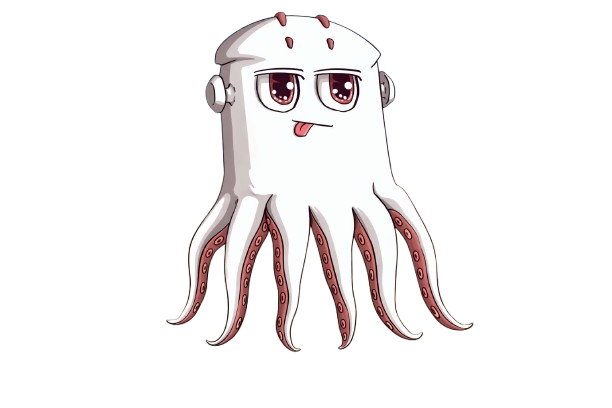
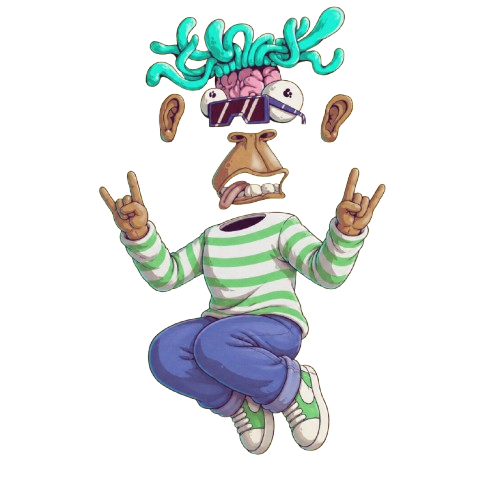
change of origin

Changed region(s): [[0.18, 0.0, 0.78, 0.9118]]

diff --git a/component/GameCanvas.tsx b/component/GameCanvas.tsx
@@ -31,7 +31,7 @@ export default function GameCanvas() {
         const titleSize = width < 768 ? "38px" : "72px";
 
         const title = this.add
-          .text(width / 2, height / 2 - 140, "Welcome to L0F0", {
+          .text(width / 2, height / 2 - 140, "Welcome to XPLODIES", {
             fontFamily: "Comic Sans MS",
             fontSize: titleSize,
             color: "#F8F4FF",
@@ -327,7 +327,7 @@ export default function GameCanvas() {
         const centerY = this.cameras.main.height / 2;
 
         const floatingText = this.add
-          .text(centerX, centerY, "L0F0's pLaYgRoUnD", {
+          .text(centerX, centerY, "XPLODIES", {
             fontFamily: "Comic Sans MS",
             fontSize: this.isMobile ? "40px" : "64px",
             fontStyle: "bold",

diff --git a/src/app/layout.tsx b/src/app/layout.tsx
@@ -5,7 +5,7 @@ import { Inter } from "next/font/google";
 const inter = Inter({ subsets: ["latin"] });
 
 export const metadata: Metadata = {
-  title: "Lost and Found",
+  title: "XPLODIES",
   description: "CREATED BY 0x",
 };
 